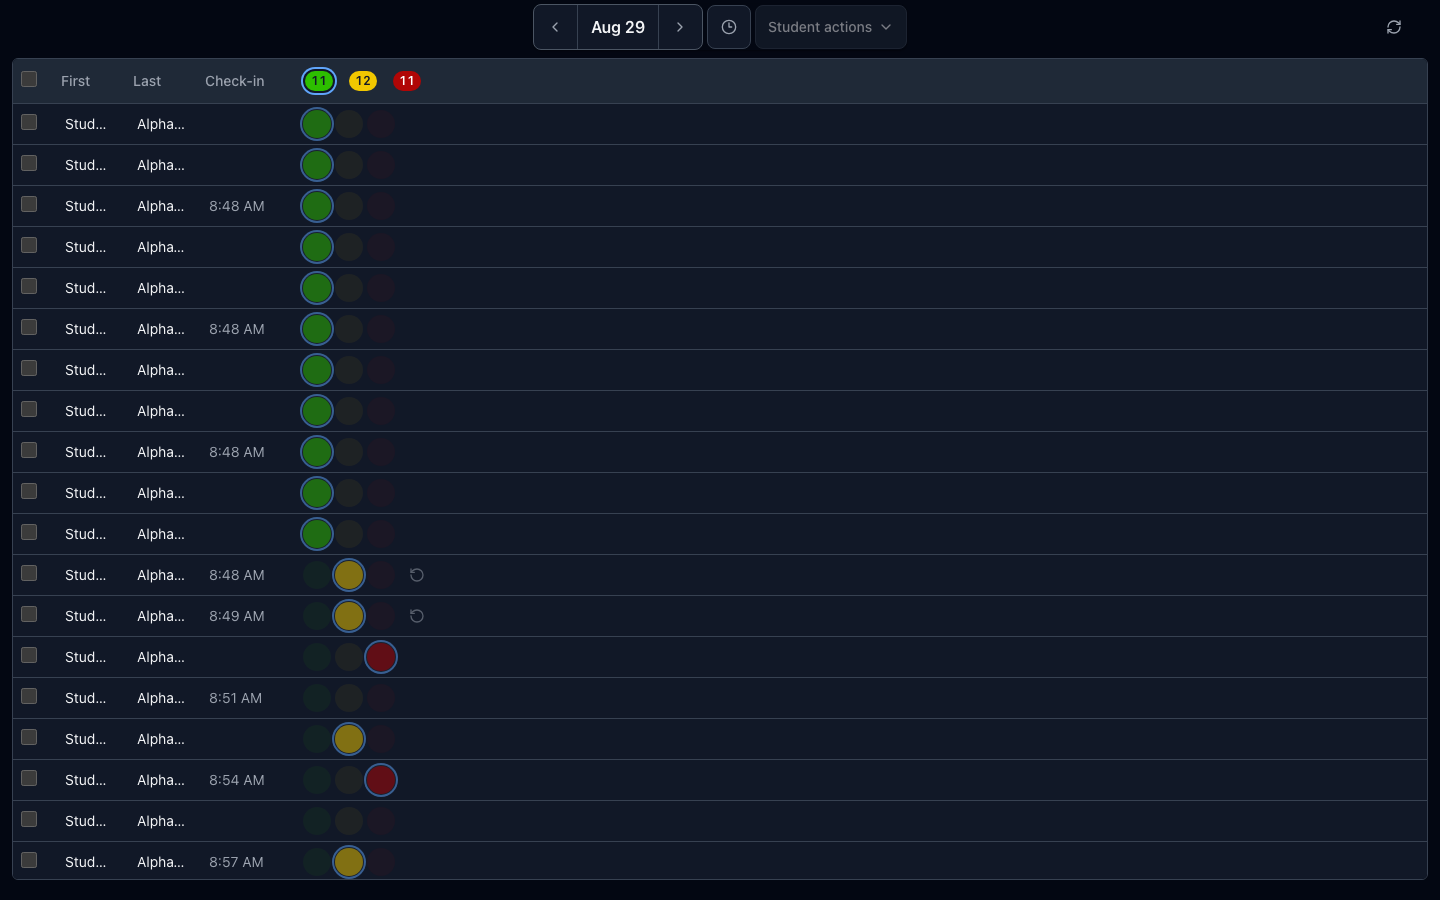
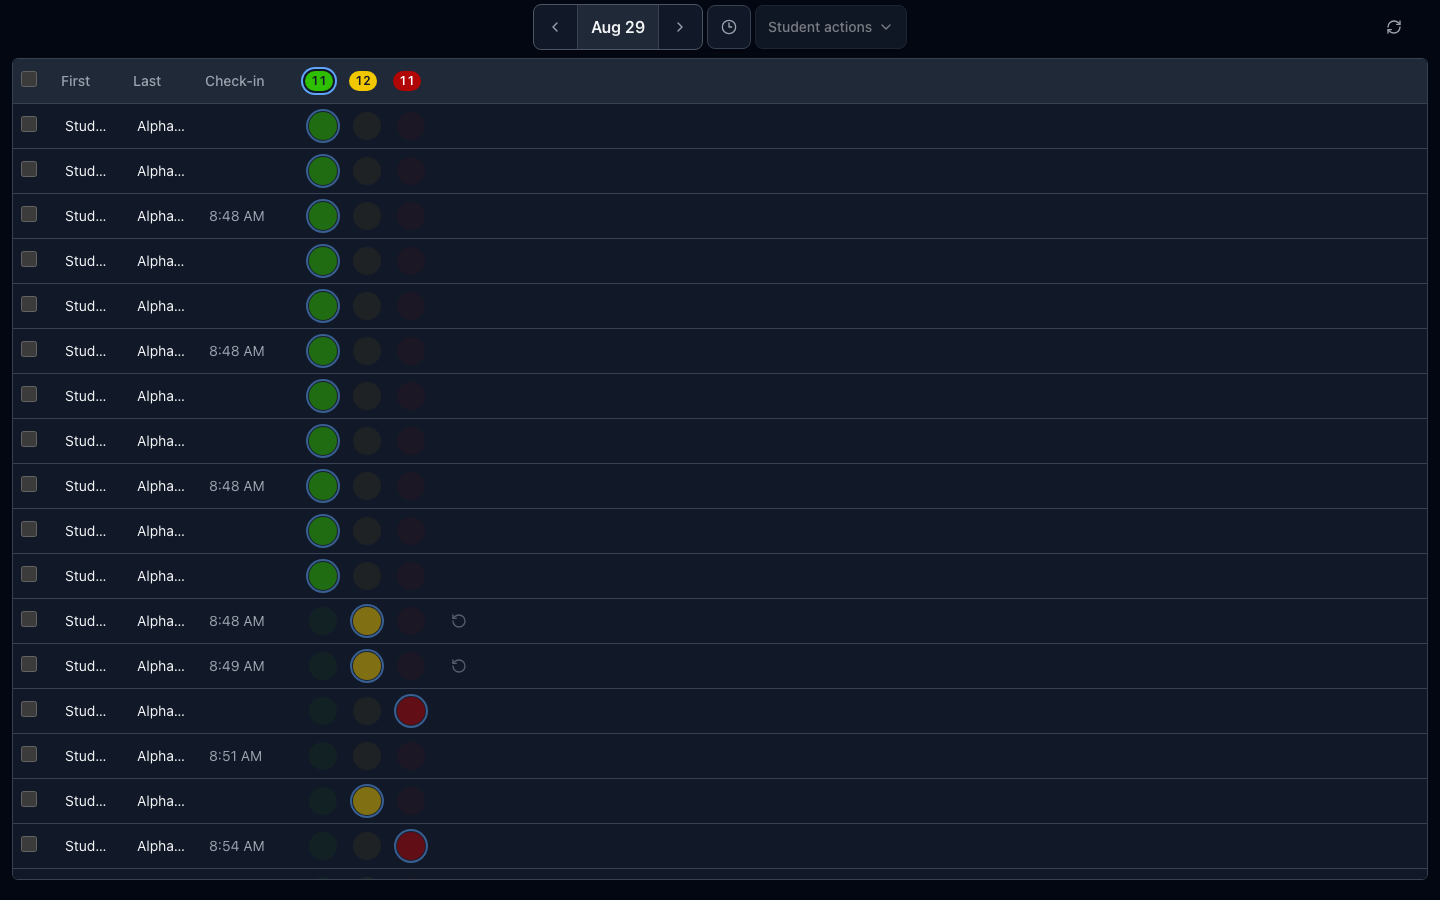
Preserve Attendance action hit targets

Changed region(s): [[0.0, 0.1244, 0.3125, 0.9956], [0.3125, 0.6844, 0.3438, 0.7156]]

diff --git a/src/app/classrooms/[classroomId]/TeacherLiveAttendanceTab.tsx b/src/app/classrooms/[classroomId]/TeacherLiveAttendanceTab.tsx
@@ -158,7 +158,7 @@ function AttendanceStatusControl({
         label: STATUS_LABELS[optionStatus],
         disabled,
         className: cn(
-          "relative h-8 w-8 min-h-8 min-w-8 rounded-full after:pointer-events-none after:absolute after:h-7 after:w-7 after:rounded-full after:content-['']",
+          "relative h-11 w-11 min-h-11 min-w-11 rounded-full after:pointer-events-none after:absolute after:h-7 after:w-7 after:rounded-full after:content-['']",
           STATUS_BUTTON_CLASSES[optionStatus],
         ),
         activeClassName: 'after:opacity-100 after:ring-2 after:ring-primary after:ring-offset-1 after:ring-offset-surface-2 after:shadow-sm',
@@ -1004,13 +1004,14 @@ export function TeacherLiveAttendanceTab({
                       onChange={() => toggleSelect(student.studentId)}
                       ariaLabel={`Select ${studentName}`}
                       disabled={!editable}
+                      className="!py-0"
                     />
-                    <DataTableCell className="min-w-0">
+                    <DataTableCell className="min-w-0 !py-0">
                       <span className="block truncate" title={student.firstName || undefined}>
                         {student.firstName || '—'}
                       </span>
                     </DataTableCell>
-                    <DataTableCell className="min-w-0">
+                    <DataTableCell className="min-w-0 !py-0">
                       <span className="block truncate" title={student.lastName || undefined}>
                         {student.lastName || '—'}
                       </span>
@@ -1020,10 +1021,10 @@ export function TeacherLiveAttendanceTab({
                         </span>
                       ) : null}
                     </DataTableCell>
-                    <DataTableCell className="hidden min-w-0 text-text-muted md:table-cell">
+                    <DataTableCell className="hidden min-w-0 !py-0 text-text-muted md:table-cell">
                       {checkInTime ? <span>{checkInTime}</span> : <span className="sr-only">No QR check-in</span>}
                     </DataTableCell>
-                    <DataTableCell>
+                    <DataTableCell className="!py-0">
                       <div className="flex items-center gap-1">
                         <AttendanceStatusControl
                           studentName={studentName}
@@ -1041,7 +1042,7 @@ export function TeacherLiveAttendanceTab({
                               type="button"
                               variant="ghost"
                               size="xs"
-                              className="h-8 w-8 min-h-8 min-w-8 px-0 py-0"
+                              className="h-11 w-11 min-h-11 min-w-11 px-0 py-0"
                               aria-label={`Undo manual attendance change for ${studentName}`}
                               disabled={!editable}
                               onClick={() => void submitMarks(

diff --git a/e2e/experience-matrix.spec.ts b/e2e/experience-matrix.spec.ts
@@ -280,7 +280,7 @@ test('keeps the Attendance roster compact with inline status controls', async ({
       .locator('span')
       .evaluate((element) => element.getBoundingClientRect().width),
   ])
-  expect(firstStudentRowHeight).toBeLessThanOrEqual(45)
+  expect(firstStudentRowHeight).toBeLessThanOrEqual(46)
   expect(presentCountWidth).toBeCloseTo(28, 1)
   await expect(page.getByRole('group', { name: 'Sort attendance by status' }).locator('xpath=ancestor::th')).not.toContainText('Status')
   await expect.poll(() => scrollPane.evaluate((element) => element.scrollHeight > element.clientHeight)).toBe(true)
@@ -340,8 +340,8 @@ test('keeps the Attendance roster compact with inline status controls', async ({
         indicatorShadow: indicatorStyles.boxShadow,
       }
     })
-    expect(geometry.width).toBeCloseTo(32, 1)
-    expect(geometry.height).toBeCloseTo(32, 1)
+    expect(geometry.width).toBeCloseTo(44, 1)
+    expect(geometry.height).toBeCloseTo(44, 1)
     expect(Math.abs(geometry.width - geometry.height)).toBeLessThan(1)
     expect(geometry.radius).toBeGreaterThanOrEqual(geometry.width / 2)
     expect(geometry.indicatorWidth).toBe(28)
@@ -352,9 +352,14 @@ test('keeps the Attendance roster compact with inline status controls', async ({
   }
   await expect(firstStudentStatus.getByRole('button', { name: 'Present' })).toHaveAttribute('aria-pressed', 'true')
   await firstStudentStatus.getByRole('button', { name: 'Late' }).click()
-  await expect(page.getByRole('button', {
+  const undoQrCorrection = page.getByRole('button', {
     name: 'Undo manual attendance change for Student 01 Alpha01',
-  })).toBeVisible()
+  })
+  await expect(undoQrCorrection).toBeVisible()
+  const undoBounds = await undoQrCorrection.boundingBox()
+  expect(undoBounds).not.toBeNull()
+  expect(undoBounds!.width).toBeCloseTo(44, 1)
+  expect(undoBounds!.height).toBeCloseTo(44, 1)
   await expect(page.getByTestId('app-message-overlay')).toHaveCount(0)
   await page.getByRole('checkbox', { name: 'Select Student 01 Alpha01' }).click()
   const selectedActions = primaryControl.getByRole('button', { name: 'Student actions for 1 selected' })

diff --git a/tests/components/TeacherLiveAttendanceTab.test.tsx b/tests/components/TeacherLiveAttendanceTab.test.tsx
@@ -241,10 +241,10 @@ describe('TeacherLiveAttendanceTab', () => {
     for (const label of ['Present', 'Late', 'Absent']) {
       const statusButton = within(graceStatus).getByRole('button', { name: label })
       expect(statusButton).toHaveClass(
-        'h-8',
-        'w-8',
-        'min-h-8',
-        'min-w-8',
+        'h-11',
+        'w-11',
+        'min-h-11',
+        'min-w-11',
         'rounded-full',
         'after:h-7',
         'after:w-7',
@@ -618,6 +618,7 @@ describe('TeacherLiveAttendanceTab', () => {
     const undo = await screen.findByRole('button', {
       name: 'Undo manual attendance change for Grace Hopper',
     })
+    expect(undo).toHaveClass('h-11', 'w-11', 'min-h-11', 'min-w-11')
     expect(screen.getAllByText('8:50 AM').length).toBeGreaterThan(0)
     fireEvent.click(undo)
 

diff --git a/docs/guidance/ui/evidence/attendance-actions-2026-08-27/record.md b/docs/guidance/ui/evidence/attendance-actions-2026-08-27/record.md
@@ -46,7 +46,7 @@ the superseded whole-roster action direction and are no longer conformance evide
 ## Assessment
 
 - Design claim being checked: the quiet refresh utility stays at the edge, while the joined date navigator, session-time control, immediate session actions, and persistent selected-student menu form the dominant centered cluster above an internally scrolling roster with checkbox selection and inline row corrections.
-- Confirmed invariants: previous/date/next controls are contiguous; the selectable date has no dropdown chevron; each student has a checkbox and the header has a select-all checkbox; the selected-student menu stays visible but disabled with no selection and exposes the selected count when enabled; whole-roster status buttons and a manual-editing mode toggle are absent; per-student controls always expose three named pressed states in fixed Present/Late/Absent order as compact 32 px circular targets with 28 px icon-free visible discs; the selected status has a semantic blue ring while inactive states remain visible at 12% opacity; 28 px count pills align with the status discs; the trailing header shows sortable Present/Late/Absent counts without a visible `Status` label; QR-origin corrections expose Undo; Check-in shows the QR time or remains visually empty; the clickable session range shrinks to its content in the centered cluster while accommodating `12:45 AM - 10:34 PM`, uses uppercase AM/PM, and keeps spaces around the dash; its subtle semantic background communicates the open state without visible `Open` copy, while its accessible name retains that state; the old trailing hours icon is absent and a clock control appears when no range exists; mobile session actions collapse without losing QR/open/close/hours/refresh access; utilities remain reachable; the roster scrolls internally with sticky sortable/resizable headers; there is no page overflow or action overlap.
+- Confirmed invariants: previous/date/next controls are contiguous; the selectable date has no dropdown chevron; each student has a checkbox and the header has a select-all checkbox; the selected-student menu stays visible but disabled with no selection and exposes the selected count when enabled; whole-roster status buttons and a manual-editing mode toggle are absent; per-student controls always expose three named pressed states in fixed Present/Late/Absent order with Pika's 44 px direct-action targets around 28 px icon-free visible discs; the selected status has a semantic blue ring while inactive states remain visible at 12% opacity; 28 px count pills align with the status discs; the trailing header shows sortable Present/Late/Absent counts without a visible `Status` label; QR-origin corrections expose a 44 px Undo action; Check-in shows the QR time or remains visually empty; the clickable session range shrinks to its content in the centered cluster while accommodating `12:45 AM - 10:34 PM`, uses uppercase AM/PM, and keeps spaces around the dash; its subtle semantic background communicates the open state without visible `Open` copy, while its accessible name retains that state; the old trailing hours icon is absent and a clock control appears when no range exists; mobile session actions collapse without losing QR/open/close/hours/refresh access; utilities remain reachable; the roster scrolls internally with sticky sortable/resizable headers; there is no page overflow or action overlap.
 - Inconsistencies or migration debt: none identified for this scope.
 - Intentional differences: the implementation retains Attendance terminology, existing QR/session command rules, Pika typography/tokens, real command-confirmation polling, and existing permission gates. It projects the original QR check-in time/status from Pika's signed integration inbox so a later staff correction does not erase the provenance needed by Undo. Mobile condenses session context and utilities while preserving the centered date/session/selection hierarchy at 390 px.
 - Limitations or dimensions not covered: no separate tablet viewport; student view is not applicable because this is a teacher-only work surface; backend integration behavior remains covered by existing component/API tests rather than the visual fixture.
@@ -56,7 +56,7 @@ the superseded whole-roster action direction and are no longer conformance evide
 
 - Checklist reviewed: yes
 - Keyboard behavior covered: yes; the joined date navigator, menu, checkboxes, sortable counts, and three-state row controls have reachable targets; menus support Arrow/Home/End/Escape with focus restoration, and segmented controls support Arrow/Home/End movement with roving focus
-- Semantic state covered by tests: yes; checkbox state, selected-row state, menu disabled/enabled state, selected count, pressed states, Undo labels, tooltips, accessible group names, absence of row-button icons, 32 px target geometry, 28 px disc/count geometry, selected ring/shadow, inactive opacity, centered longest-range placement, semantic open background, accessible session-state naming, and uppercase AM/PM are asserted
+- Semantic state covered by tests: yes; checkbox state, selected-row state, menu disabled/enabled state, selected count, pressed states, Undo labels, tooltips, accessible group names, absence of row-button icons, 44 px direct-action geometry, 28 px disc/count geometry, selected ring/shadow, inactive opacity, centered longest-range placement, semantic open background, accessible session-state naming, and uppercase AM/PM are asserted
 - Remaining manual follow-up: none
 
 ## Guidance Decision

diff --git a/design-qa.md b/design-qa.md
@@ -27,11 +27,11 @@ No actionable P0, P1, or P2 mismatch remains.
 
 - Fonts and typography: the implementation uses Pika's production font stack, weights, and compact table type scale. Hierarchy, legibility, and truncation behavior are consistent with the shared work surface.
 - Spacing and layout rhythm: the content-sized clickable session range now joins the centered action cluster immediately after the date, while refresh remains quiet at the edge. The full `12:45 AM - 10:34 PM` example fits without crowding the QR, close, or selected-student controls. Row status targets are reduced to 32 px so the tight table padding produces visibly shorter rows. The date arrows directly touch the date segment. At 390 px, session context and commands condense into one compact menu without overlap.
-- Colors and visual tokens: semantic Pika surface, text, focus, attendance-status, light, and dark tokens render consistently. The time control uses a subtle success surface while the session is open, without adding visible `Open` copy. The active row status is full-strength with a primary blue ring and subtle shadow; the other two choices remain discoverable at 12% opacity. Count pills and visible discs share a 28 px width on the same compact 32 px grid.
+- Colors and visual tokens: semantic Pika surface, text, focus, attendance-status, light, and dark tokens render consistently. The time control uses a subtle success surface while the session is open, without adding visible `Open` copy. The active row status is full-strength with a primary blue ring and subtle shadow; the other two choices remain discoverable at 12% opacity. Count pills and visible discs share a 28 px width on a 44 px direct-action grid.
 - Copy and content: the implementation preserves Attendance-specific terms and does not import Test terminology. `Check-in` contains the Toronto-local QR check-in time and is visually empty when no QR check-in exists. The session range, Check-in, and QR expiry use uppercase `AM`/`PM`; the session range uses spaces around the dash.
 - Icons and affordances: the old trailing Attendance hours icon is removed. The centered session range itself is a subtle button that opens Attendance hours; its accessible name still announces the open session state, and a clock button occupies the same centered slot when no range exists. The selectable date has no dropdown chevron. Row status controls are icon-free; remaining utility and menu icons use Pika's existing Lucide family with accessible names and tooltips.
 - Selection and actions: checkbox selection remains independent from always-available row corrections. The persistent selected-student menu is disabled until selection and then exposes the selected count. Broad whole-roster status buttons and a manual-attendance mode toggle are absent.
-- Responsiveness and accessibility: desktop/mobile light/dark captures have no document overflow. Row status controls use the explicitly requested compact 32 x 32 target treatment while retaining named pressed states, visible focus rings, roving focus, and Arrow/Home/End behavior. Mobile keeps Attendance hours in the condensed action menu. The internal roster scroller retains sticky sortable/resizable headers.
+- Responsiveness and accessibility: desktop/mobile light/dark captures have no document overflow. Row status controls preserve Pika's 44 x 44 direct-action target around the explicitly requested 28 px visual circle, while retaining named pressed states, visible focus rings, roving focus, and Arrow/Home/End behavior. Mobile keeps Attendance hours in the condensed action menu. The internal roster scroller retains sticky sortable/resizable headers.
 - Interaction/runtime check: checkbox selection, select-all semantics, selected-student actions, direct row changes, QR Undo, status sorting, internal scrolling, mobile session menu, clickable session range, no-time clock fallback, and Attendance hours were exercised in Chromium. Browser console and page errors remained empty in all four projects.
 
 ## Comparison History
@@ -40,7 +40,7 @@ No actionable P0, P1, or P2 mismatch remains.
 
 - Moved the content-sized Attendance time control into the centered primary action cluster immediately after the joined date navigator.
 - Removed the visible `Open` label and status dot. The open state now uses a subtle semantic success background while the control's accessible name continues to announce `Open`.
-- Reduced row status targets from 36 px to 32 px and visible discs/count pills from 32 px to 28 px; reduced the QR-correction Undo target to the same compact size.
+- Reduced visible row status discs/count pills from 32 px to 28 px while preserving 44 px status and QR-Undo hit targets to satisfy Pika's direct-action accessibility contract.
 - Compared the refreshed 1440 x 900 Product Design source and implementation together and reviewed desktop/mobile light/dark default, selected-menu, Undo, hours-dialog, scrolled-header, and no-hours states. No actionable mismatch remains.
 
 ### Pass 9 — left-fitted time control and denser row choices, passed

diff --git a/docs/guidance/ui/evidence/attendance-actions-2026-08-27/brief.md b/docs/guidance/ui/evidence/attendance-actions-2026-08-27/brief.md
@@ -12,4 +12,4 @@
 
 ## Acceptance target
 
-This is an Attendance-specific migration to the established teacher operational work-surface hierarchy. The date arrows touch the date control, the date control has no dropdown chevron, quiet utilities remain at the edges, checkbox selection feeds one persistent selected-student actions menu, and reversible per-student corrections are always available inline. Inactive status choices remain visible at 12% while the selected choice uses full color and a blue ring. Each row choice uses a compact 32 px circular target with a 28 px status disc, and the 28 px count pills align to those discs. QR-origin rows show their check-in time and expose Undo only after a staff correction changes the QR-derived status. The content-sized session range sits in the centered action cluster immediately after the date, supports the full `12:45 AM - 10:34 PM` label, uses uppercase AM/PM and spaces around the dash, opens Attendance hours directly, and becomes a clock control when no range exists. When Attendance is open, the time control uses a subtle semantic background instead of displaying the word `Open`; its accessible name still communicates the session state. The trailing header keeps the sortable Present/Late/Absent counts without a visible `Status` label.
+This is an Attendance-specific migration to the established teacher operational work-surface hierarchy. The date arrows touch the date control, the date control has no dropdown chevron, quiet utilities remain at the edges, checkbox selection feeds one persistent selected-student actions menu, and reversible per-student corrections are always available inline. Inactive status choices remain visible at 12% while the selected choice uses full color and a blue ring. Each row choice preserves Pika's 44 px direct-action target around a compact 28 px status disc, and the 28 px count pills align to those discs. QR-origin rows show their check-in time and expose Undo only after a staff correction changes the QR-derived status. The content-sized session range sits in the centered action cluster immediately after the date, supports the full `12:45 AM - 10:34 PM` label, uses uppercase AM/PM and spaces around the dash, opens Attendance hours directly, and becomes a clock control when no range exists. When Attendance is open, the time control uses a subtle semantic background instead of displaying the word `Open`; its accessible name still communicates the session state. The trailing header keeps the sortable Present/Late/Absent counts without a visible `Status` label.

diff --git a/.ai/SESSION-LOG.md b/.ai/SESSION-LOG.md
@@ -1274,10 +1274,9 @@ student behavior changed.
 - Removed the visible `Open` label and status dot. The open state now uses a
   subtle semantic success background while the accessible name still announces
   the state; mobile hours access remains in the condensed action menu.
-- Reduced each row Present/Late/Absent target from 36 px to 32 px and its visible
-  disc from 32 px to 28 px. Matched count-pill width and QR Undo to the compact
-  treatment while preserving pressed state, focus rings, tooltips, and keyboard
-  behavior.
+- Reduced each row's visible Present/Late/Absent disc from 32 px to 28 px and
+  matched the count-pill width. Preserved 44 px status and QR Undo hit targets,
+  pressed state, focus rings, tooltips, and keyboard behavior.
 - Refreshed the live Open Design mock, approved reference, change brief, Product
   Design QA, and desktop/mobile light/dark evidence. No durable shared guidance
   changed because the adjustments remain Attendance-specific.
@@ -1286,4 +1285,5 @@ student behavior changed.
 Playwright matrix (4/4) pass; same-viewport Product Design source and production
 captures were reviewed together. Student UI is n/a because this remains a
 teacher-only surface. TypeScript, lint, policy checks, Pika audit, independent
-review, PR CI, and final diff checks remain before handoff.
+  review found and prompted correction of a 32 px hit-target regression; targeted
+  re-review, PR CI, and final diff checks remain before handoff.
